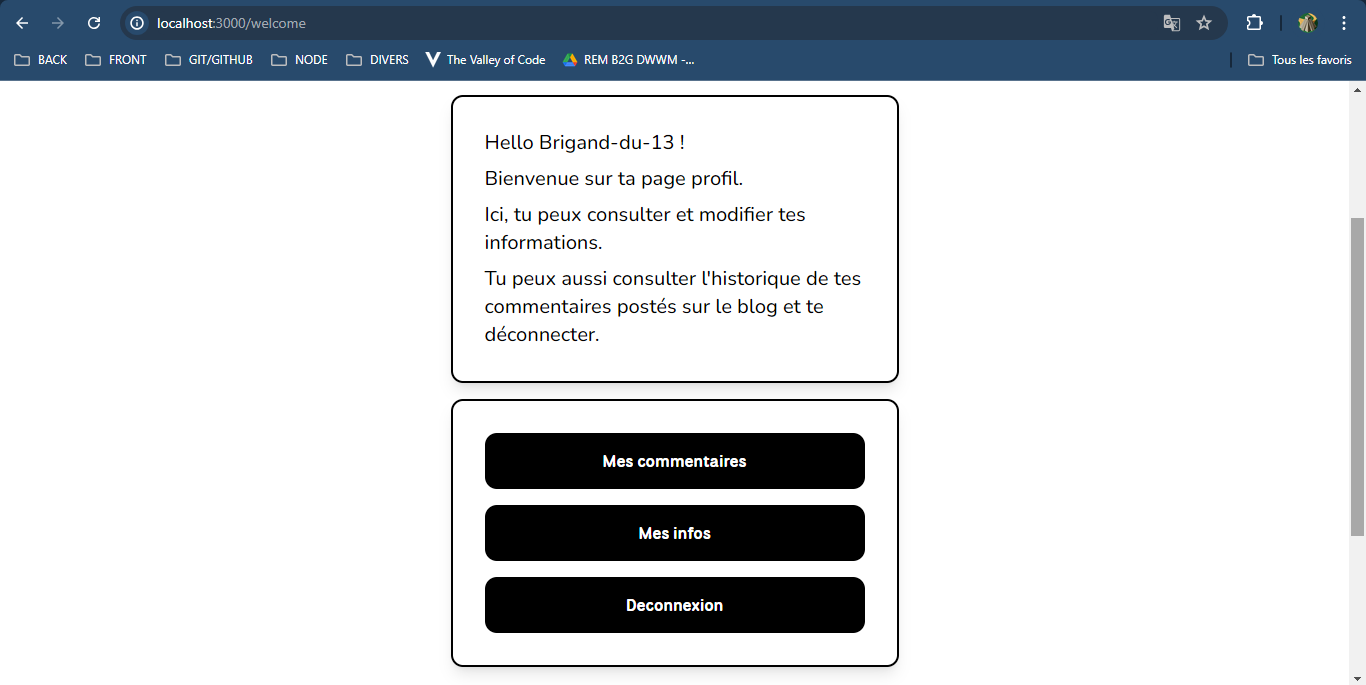
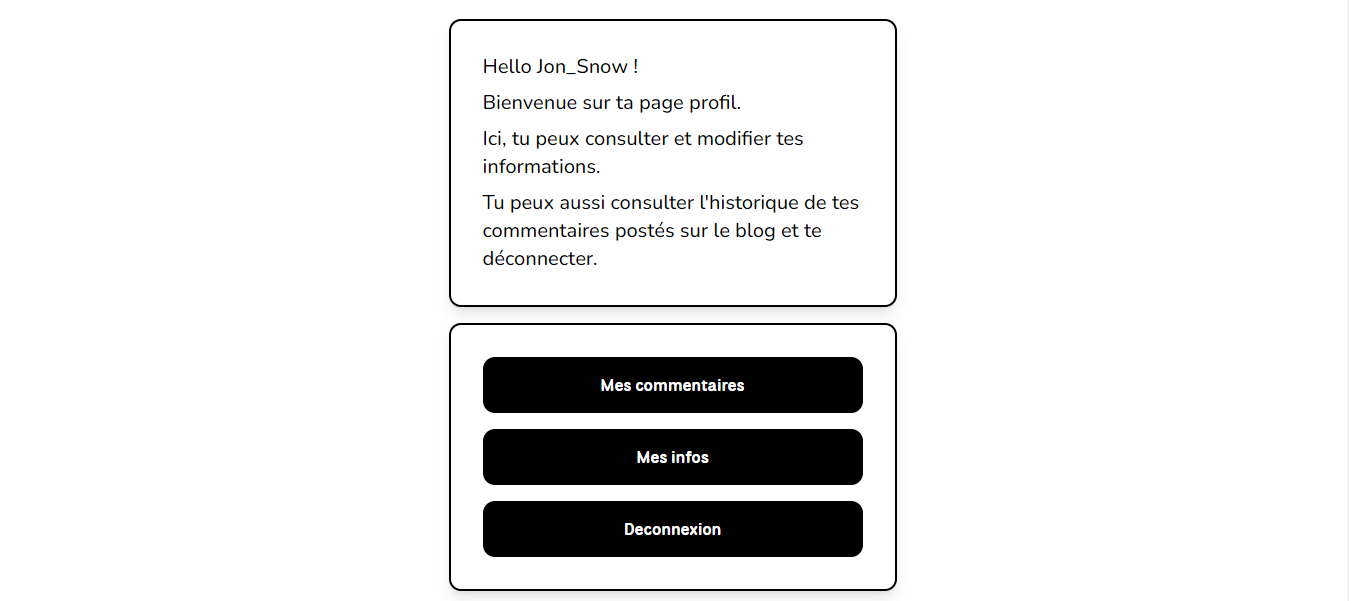
button bug not fixed... but readme with pictures good

Changed region(s): [[0.0, 0.0, 1.0, 0.9884], [0.9652, 0.2995, 1.0, 0.7787]]

diff --git a/frontend/src/components/Buttons/LikeButton.jsx b/frontend/src/components/Buttons/LikeButton.jsx
@@ -1,12 +1,20 @@
 import PropTypes from "prop-types";
-import { useContext, useState } from "react";
+import { useContext, useEffect, useState } from "react";
 import { AiOutlineLike, AiFillLike } from "react-icons/ai";
 import { UserContext } from "../../context/userContext";
 
 export default function LikeButton({ commentId, onRefreshLikeCounter }) {
   const { token, user } = useContext(UserContext);
+  const localStorageKey = `isLiked_${commentId}_${user.user?.id_user}`;
 
   const [isLiked, setIsLiked] = useState(false);
+
+  useEffect(() => {
+    const storedLikeStatus = localStorage.getItem(localStorageKey);
+    if (storedLikeStatus) {
+      setIsLiked(JSON.parse(storedLikeStatus));
+    }
+  }, [localStorageKey]);
 
   const handleClick = (e) => {
     e.preventDefault();
@@ -23,19 +31,14 @@ export default function LikeButton({ commentId, onRefreshLikeCounter }) {
       },
       body: JSON.stringify({
         id_comment: commentId,
-        id_user: user.user?.id_user,
+        id_user: user.user?.id,
       }),
     })
-      .then((res) => res.json())
-      .then((data) => {
-        console.info("data post", data);
-        if (data.message === "Commentaire liké") {
-          onRefreshLikeCounter();
-          setIsLiked(true);
-        } else {
-          setIsLiked(false);
-          onRefreshLikeCounter();
-        }
+      .then(() => {
+        onRefreshLikeCounter();
+        const newIsLiked = !isLiked;
+        setIsLiked(newIsLiked);
+        localStorage.setItem(localStorageKey, JSON.stringify(newIsLiked));
       })
       .catch((error) => {
         console.error("Error:", error);

diff --git a/frontend/src/components/Comments/CommentsArea.jsx b/frontend/src/components/Comments/CommentsArea.jsx
@@ -1,32 +1,11 @@
 /* eslint-disable array-callback-return */
-import { useEffect, useState, useContext } from "react";
+import { useEffect, useState } from "react";
 import CommentForm from "./CommentForm";
 import CommentsDisplay from "./CommentsDisplay";
-import { UserContext } from "../../context/userContext";
 
 // eslint-disable-next-line react/prop-types
 export default function CommentsArea({ idArticle }) {
   const [comments, setComments] = useState([]);
-  const { token } = useContext(UserContext);
-
-  useEffect(() => {
-    // Vérifiez si l'utilisateur a liké ce commentaire lors du chargement du composant
-    fetch(`http://localhost:3310/api/comment/isliked`, {
-      method: "GET",
-      headers: {
-        "Content-Type": "application/json",
-        Authorization: `Bearer ${token}`,
-      },
-    })
-      .then((res) => res.json())
-      .then((data) => {
-        console.info("data", data);
-        data.map((a) => console.info("id_user", a.id_user));
-      })
-      .catch((error) => {
-        console.error("Error:", error);
-      });
-  }, [comments.commentId, token]);
 
   const fetchComments = () => {
     fetch(`http://localhost:3310/api/article/${idArticle}/comments`)

diff --git a/backend/src/controllers/CommentControllers.js b/backend/src/controllers/CommentControllers.js
@@ -39,22 +39,22 @@ const deleteComment = async (req, res) => {
   }
 };
 
-const getLikesOfComments = async (req, res) => {
-  try {
-    const [result] = await tables.user_like.getLikes();
-    if (result.length) {
-      console.info(result);
-      res.status(200).json(result);
-    } else {
-      res.status(404).send(false);
-    }
-  } catch (error) {
-    res.status(500).send(error);
-  }
-};
+// const getLikesOfComments = async (req, res) => {
+//   try {
+//     const { id_comment } = req.params;
+//     const [result] = await tables.user_like.getLikes(id_comment);
+//     if (result.length) {
+//       console.info(result);
+//       res.status(200).json(result);
+//     } else {
+//       res.status(404).send(false);
+//     }
+//   } catch (error) {
+//     res.status(500).send(error);
+//   }
+// };
 
 module.exports = {
   postComment,
   deleteComment,
-  getLikesOfComments,
 };

diff --git a/backend/src/models/UserLikeManager.js b/backend/src/models/UserLikeManager.js
@@ -29,18 +29,20 @@ class UserLikeManager extends AbstractManager {
     );
   }
 
-  getLikes() {
-    return this.database.query(
-      `SELECT 
-       c.id AS id_comment, 
-       c.content AS comment_text, 
-       u.id AS id_user, 
-       u.pseudo AS user_pseudo
-       FROM user_like ul
-       JOIN user u ON ul.id_user = u.id
-       JOIN comment c ON ul.id_comment = c.id`
-    );
-  }
+  // getLikes(id_comment) {
+  //   return this.database.query(
+  //     `SELECT
+  //      c.id AS id_comment,
+  //      c.content AS comment_text,
+  //      u.id AS id_user,
+  //      u.pseudo AS user_pseudo
+  //      FROM user_like ul
+  //      JOIN user u ON ul.id_user = u.id
+  //      JOIN comment c ON ul.id_comment = c.id
+  //      WHERE id_comment = ?`,
+  //     [id_comment]
+  //   );
+  // }
 }
 
 module.exports = UserLikeManager;

diff --git a/backend/src/router.js b/backend/src/router.js
@@ -26,7 +26,10 @@ router.get(
   articleControllers.getAllArticleTitlesOrderByPublicationDate
 );
 router.get("/article/:id/comments", articleControllers.getAllCommentsByArticle);
-router.get("/comment/isliked", commentControllers.getLikesOfComments);
+// router.get(
+//   "/comment/:id_comment/isliked",
+//   commentControllers.getLikesOfComments
+// );
 
 // routes utilisateur
 

diff --git a/frontend/src/components/Comments/DeleteButton.jsx b/frontend/src/components/Comments/DeleteButton.jsx
@@ -29,6 +29,7 @@ export default function DeleteButton({
       .then((res) => {
         console.info("res", res);
         onDeleteComment();
+        localStorage.removeItem(`isLiked_${commentId}_${user.user?.id_user}`);
       })
       .catch((error) => {
         console.error("Error:", error);

diff --git a/README.md b/README.md
@@ -3,25 +3,34 @@
 Avec Noir et Blanc, j'ai voulu développer un site responsive de A à Z en y intégrant un maximum de fonctionnalités. Il s'agit d'un blog personnel de libre expression dans lequel il possible, pour un utilisateur, de lire des articles et d'y publier des commentaires. Pour cette dernière fonctionnalité, l'utilisateur doit passer par une inscription puis une authentification.
 
 ![Page d'accueil](Readme-Pictures/Screen-8.png)
+![Page d'accueil responsive](Readme-Pictures/Screen-4.png)
 
 Inscription : hachage du mot de passe, impossibilité de choisir un pseudo/email déjà dans la base de données, mot de passe complexe exigé, pseudo doit respecter une certaine syntaxe (commencer par une lettre et interdiction de tous les caractères spéciaux sauf - et \_), message(s) d'erreur(s) dès qu'une contrainte n'est pas respectée
 
 Connexion : message d'erreur si les données de connexion (email et mot de passe) ne sont pas valide, création d'un token jwt à la validation
 
-![Texte alternatif test](Readme-Pictures/Screen-14bis.png)
-![Texte alternatif test](Readme-Pictures/Screen-15.png)
+![Formulaire connexion](Readme-Pictures/Screen-14bis.png)
+![Formulaire inscription](Readme-Pictures/Screen-15.png)
 
-L'utilisateur peut publier un commentaire sous un article s'il le souhaite. Pour que l'UX soit optimale, j'ai fait en sorte que les commentaires postés s'affichent en temps réel (grâce à un fetch déclenché au submit) sans que l'on ait besoin de rafraichir la page. Pareil pour la suppression. Il est également possible de liker/unliker un commentaire. Le problème que j'ai eu est que je n'ai pas réussi à gérer l'état du bouton like (changement d'apparence) autrement qu'avec le localstorage. C'est fonctionnel sur un même et seul navigateur (je like, le bouton se remplit, j'unlike il se vide). La prochaine fois il faudra que je comprenne comment envoyer l'état dans la base de donnée. Ceci dit ça m'a permis de mieux comprendre comment marche le localstorage, donc c'est toujours ça de pris.
+L'utilisateur peut publier un commentaire sous un article s'il le souhaite. Pour que l'UX soit optimale, j'ai fait en sorte que les commentaires postés s'affichent en temps réel (grâce à un fetch déclenché au submit) sans que l'on ait besoin de rafraichir la page. Pareil pour la suppression. Il est également possible de liker/unliker un commentaire. Le problème que j'ai eu est que je n'ai pas réussi à gérer correctement l'état du bouton like (changement d'apparence) autrement qu'avec le localstorage. C'est fonctionnel sur un même et seul navigateur (je like, le bouton se remplit, j'unlike il se vide et si je me reconnecte plus tard l'état reste inchangé). La prochaine fois il faudra que je comprenne comment envoyer l'état dans la base de donnée. Ceci dit ça m'a permis de mieux comprendre comment marche le localstorage, donc c'est toujours ça de pris. EDIT : j'ai essayé pendant 2 jours de gérer l'état avec la base de données, sans succès, j'ai donc laissé le code avec le localstorage sauf que j'ai remarqué un nouveau problème : quand je me connecte ou déconnecte depuis l'espace commentaire, le state des boutons like ne se met pas à jour (par exemple, j'ai liké un commentaire : quand je me déconnecte le bouton ne devrait plus apparaitre rempli et inversement, si j'ai liké un commentaire au moment de la connexion il devrait apparaitre rempli... quand je rafraichit la page ça fonctionne mais ce n'est pas ce que je veux car ce n'est pas dynamique) et je n'ai pas trouvé de solution. Je laisse ça comme ça pour l'instant, j'y reviendrais plus tard.
+
+![Page d'accueil responsive](Readme-Pictures/Screen-9.png)
+![Page d'accueil responsive](Readme-Pictures/Screen-10.png)
 
 Commentaires : incrémentation/décrémentation des likes dans la base de données, changement de couleur pour un commentaire liké (retour à l'état initial lors du unlike), impossibilité de supprimer le commentaire d'un autre utilisateur (masquage du bouton delete en css), formatage du texte (limite de caractères, effacement des blancs au submit, impossibilité de poster un commentaire vide), affichage de la mention "aucun commentaire pour le moment" si 0 commentaires postés, impossibilité de poster si non connecté, possibilité de se connecter/déconnecter et de s'inscrire directement depuis l'espace commentaire
 
-![Texte alternatif test](Readme-Pictures/Screen-11.png)
+![Aucun commentaire pour le moment](Readme-Pictures/Screen-17.png)
+![Commentaires avec like et delete](Readme-Pictures/Screen-16.png)
 
-J'ai créé un bouton random-article qui permet de naviguer sur un article au hasard quand on clique dessus. J'ai un peu galéré à concevoir ce bouton et d'ailleurs la solution que j'ai trouvée n'est peut-être pas idéale en terme de performance car les id des articles (récupérés pour choisir un nombre aléatoire) sont fetchés à chaque rendu du composant header, et non quand on clique sur le bouton, mais peut-être que c'est comme ça que ça marche le mieux...
+J'ai créé un bouton random-article qui permet de naviguer sur un article au hasard quand on clique dessus. J'ai un peu galéré à concevoir ce bouton et d'ailleurs la solution que j'ai trouvée n'est peut-être pas idéale en terme de performance car les id des articles (récupérés pour choisir un nombre aléatoire) sont fetchés à chaque rendu du composant header, et non quand on clique sur le bouton, mais peut-être que c'est comme ça qu'on fait finalement.
 
 Il est également possible pour un utilisateur via la page welcome de modifier son pseudo et son mot de passe (avec toujours les mêmes contraintes qu'à la création : contrainte de complexité de mot de passe et impossible de choisir un pseudo déjà utilisé, également : impossible de changer pour le même mot de passe). J'ai aussi fait attention à l'état des boutons après le submit (désactivation du bouton après une validation, bouton qui reste actif après un message d'erreur).
 
-![Texte alternatif test](Readme-Pictures/Screen-13.png)
-![Texte alternatif test](Readme-Pictures/Screen-12.png)
+![Page welcome](Readme-Pictures/Screen-13.png)
+![Page archives](Readme-Pictures/Screen-20.png)
 
-Pour conclure, il est possible que j'ai oublié des choses mais j'étais dans l'état d'esprit de vraiment penser à tout et de faire en sorte que l'expérience utilisateur soit vraiment aboutie. Deux choses pour finir : la fonctionnalité de fetch des commentaires par utilisateur (pour qu'un utilisateur ai accès à la liste de tous ses commentaires rangés par articles) n'est pas prête car je dois avancer sur d'autres projets et mon passage de diplome, il manquait juste ça pour que soit vraiment terminé tout ce que j'avais prévu, ça et un mode couleur inversées. Enfin, et ça fera l'objet d'une deuxième phase de développement plus tard, c'est toute la partie administrateur, qui va permettre à l'auteur du blog de poster/modifier/supprimer ses articles, gérer les utilisateurs, modérer les commentaires.
+Pour conclure, il est possible que j'ai oublié des choses mais j'étais dans l'état d'esprit de vraiment penser à tout et de faire en sorte que l'expérience utilisateur soit vraiment aboutie. Deux choses pour finir : la fonctionnalité de fetch des commentaires par utilisateur (pour qu'un utilisateur ai accès à la liste de tous ses commentaires rangés par articles) n'est pas prête car je dois avancer sur d'autres projets et mon passage de diplome, il me manquait à coder ça pour que soit vraiment terminé tout ce que j'avais prévu, ça et un mode couleur inversées et bien sûr ce fichu bouton like... Enfin, et ça fera l'objet d'une deuxième phase de développement plus tard, c'est toute la partie administrateur, qui va permettre à l'auteur du blog de poster/modifier/supprimer ses articles, gérer les utilisateurs, modérer les commentaires. Je pense que j'utiliserais un CMS.
+
+Merci de m'avoir lu, j'espère que c'était assez clair.
+
+Mattias Guittari
